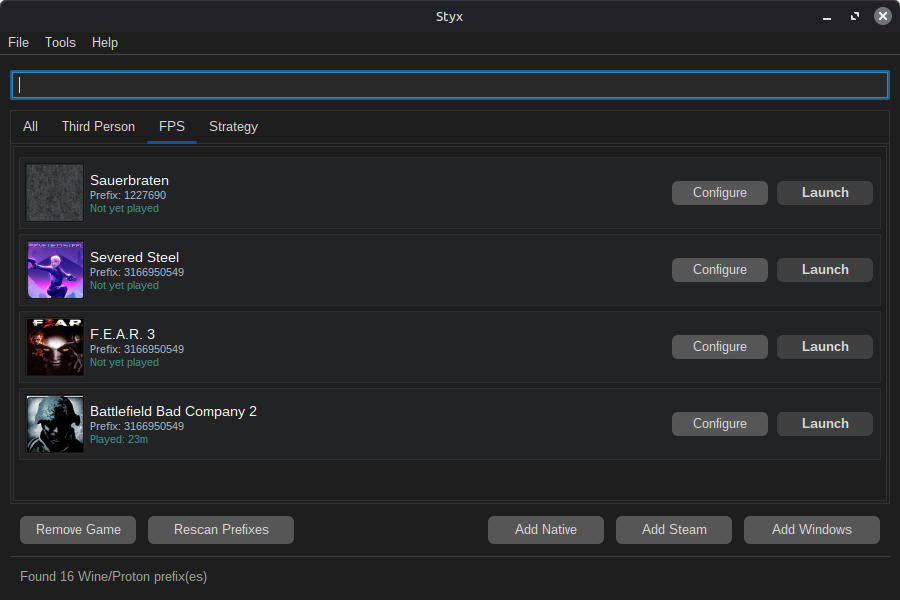
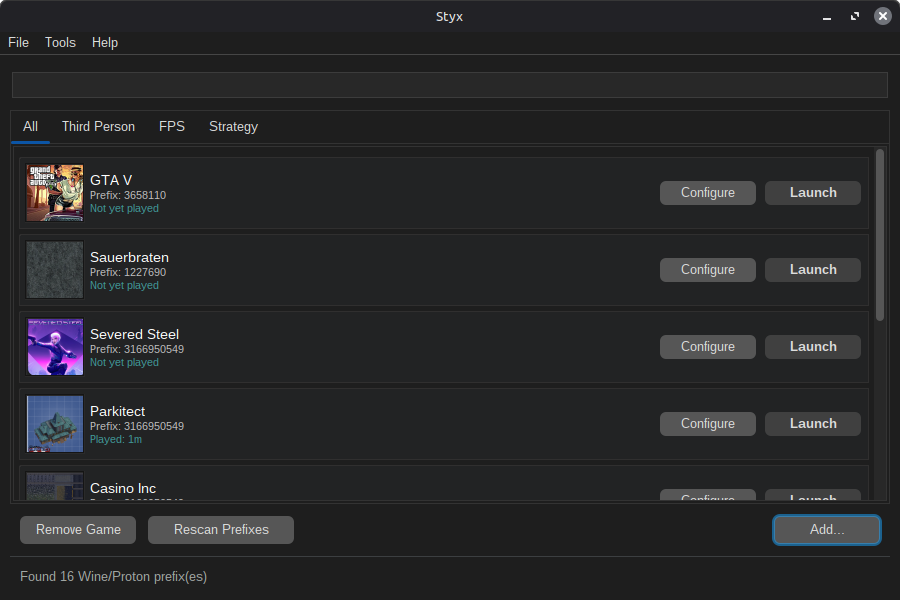
update

diff --git a/src/main/kotlin/com/styx/ui/GameLauncher.kt b/src/main/kotlin/com/styx/ui/GameLauncher.kt
@@ -164,8 +164,8 @@ class GameLauncher : JFrame("Styx") {
 
         val rightButtonPanel = JPanel(FlowLayout(FlowLayout.RIGHT, 8, 0))
 
-        val addBtn = JButton("Add").apply {
-            preferredSize = Dimension(100, 32)
+        val addBtn = JButton("Add...").apply {
+            preferredSize = Dimension(110, 32)
             toolTipText = "Add Game"
             addActionListener { showAddGameMenu(this) }
         }
